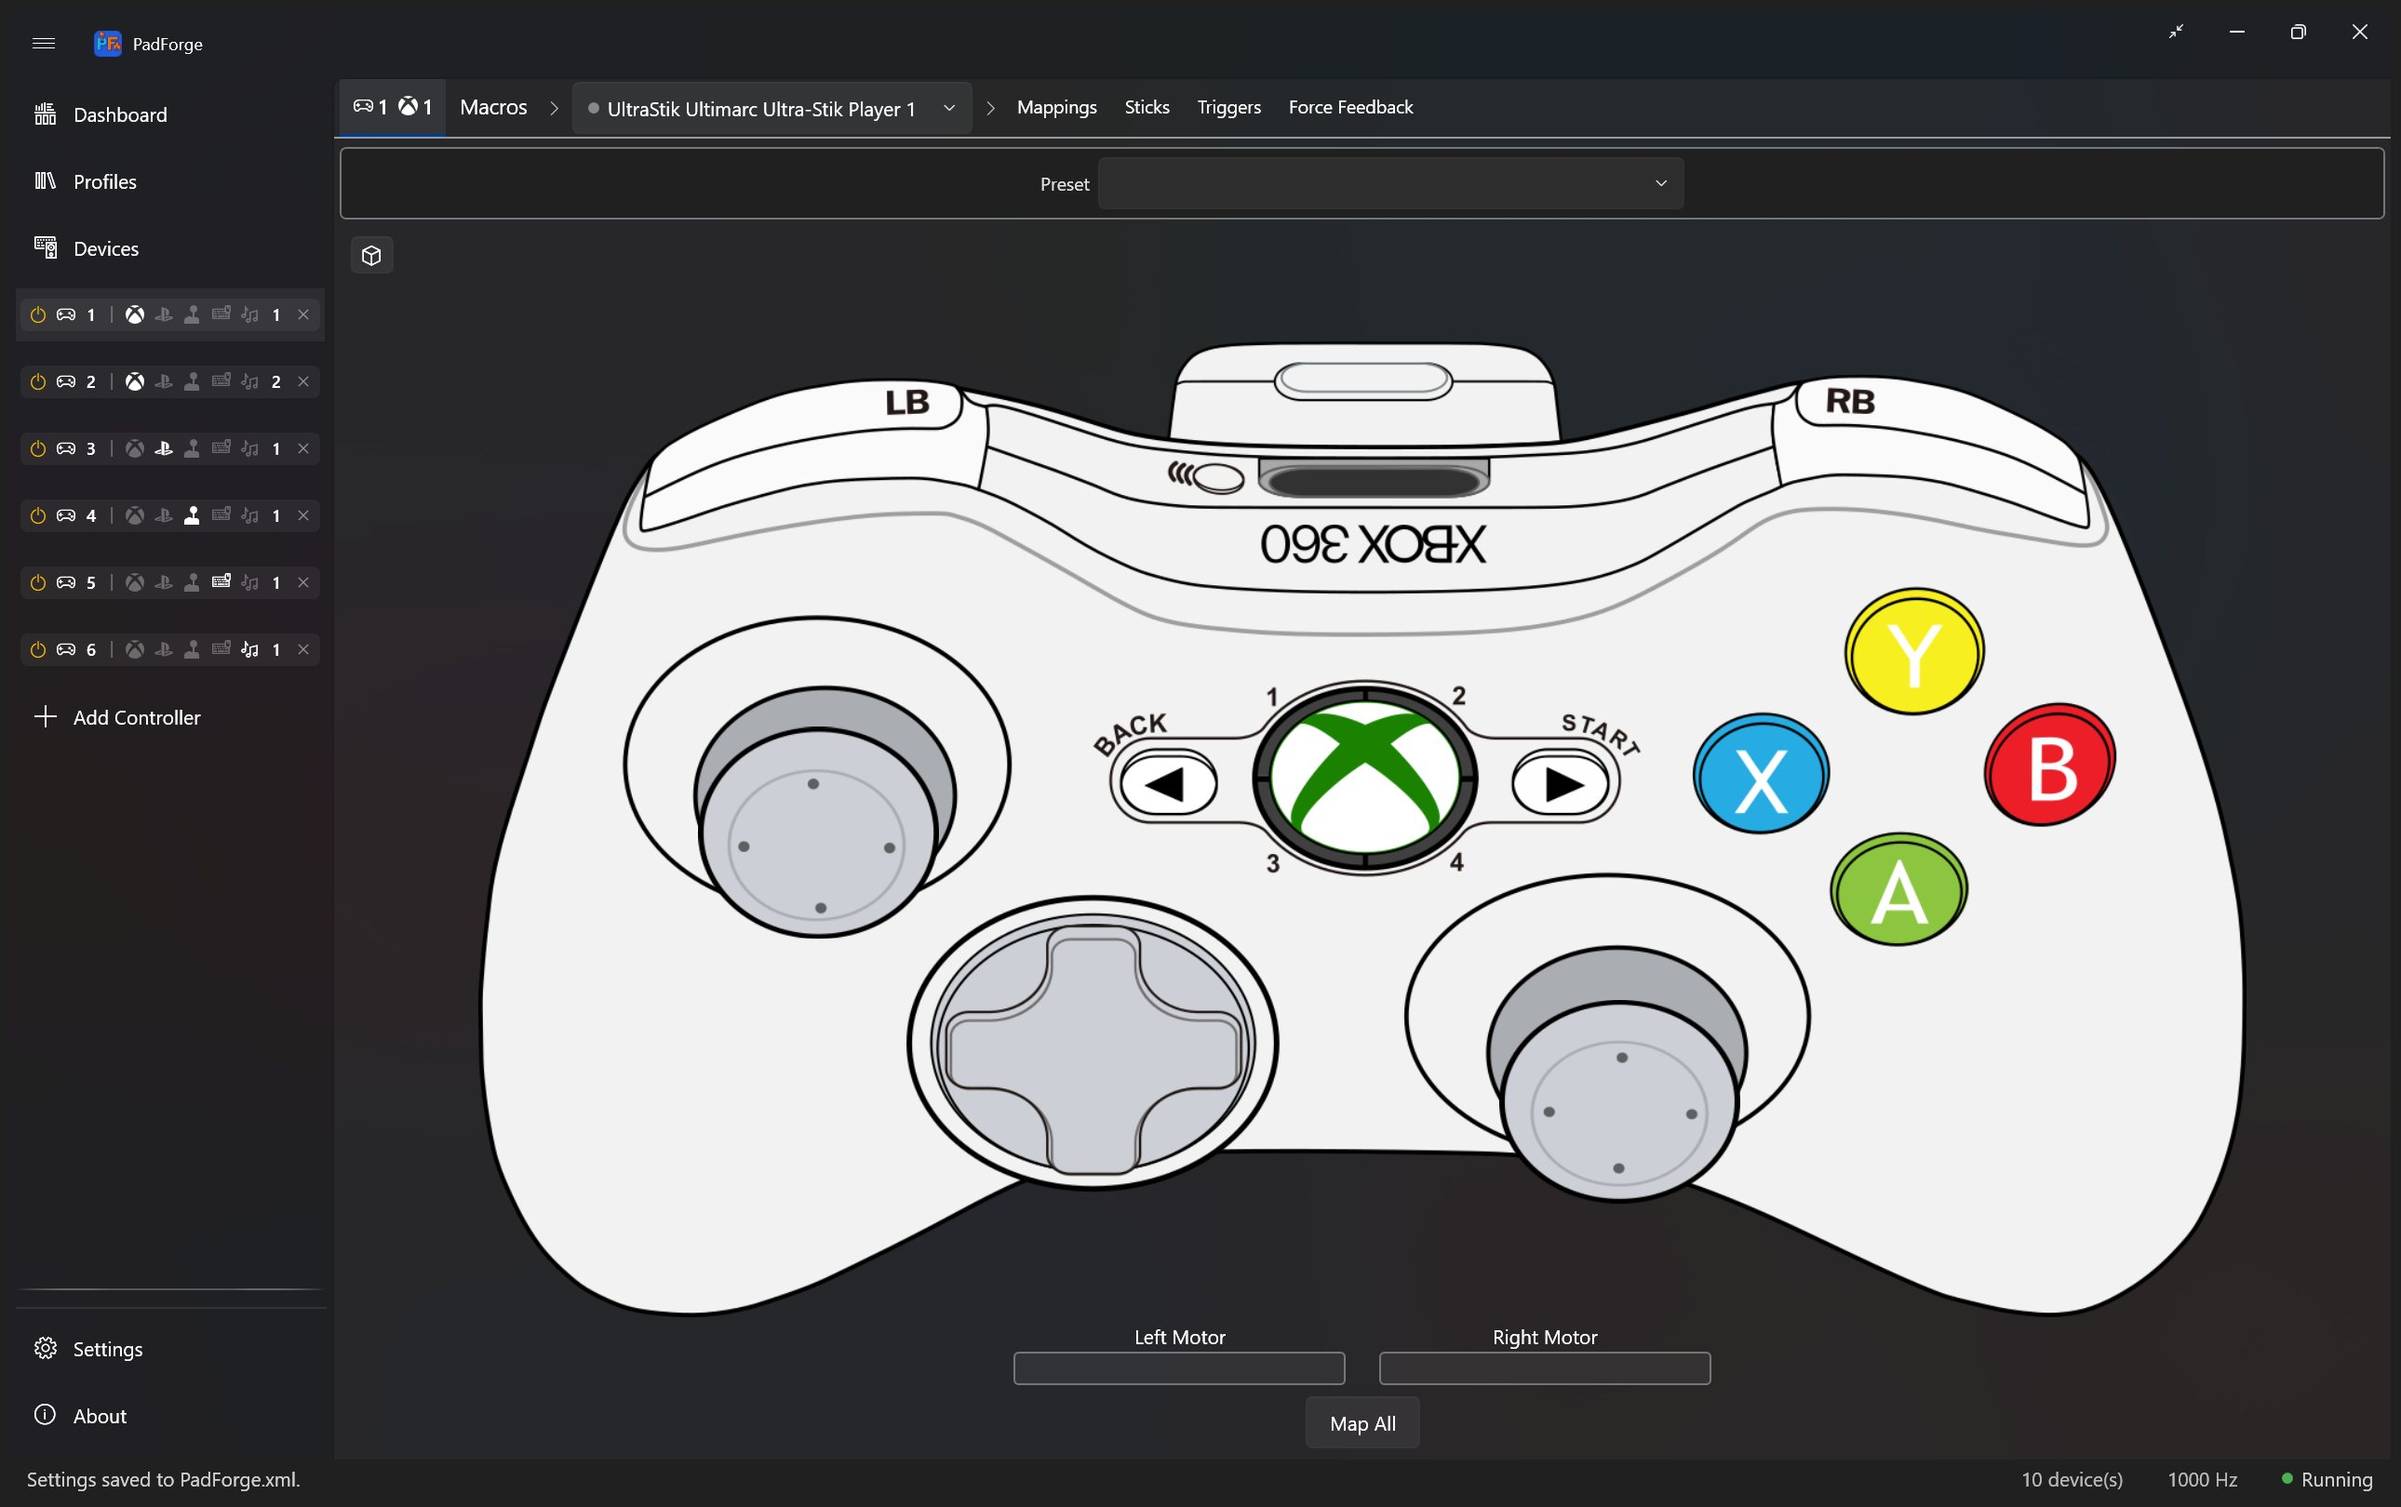
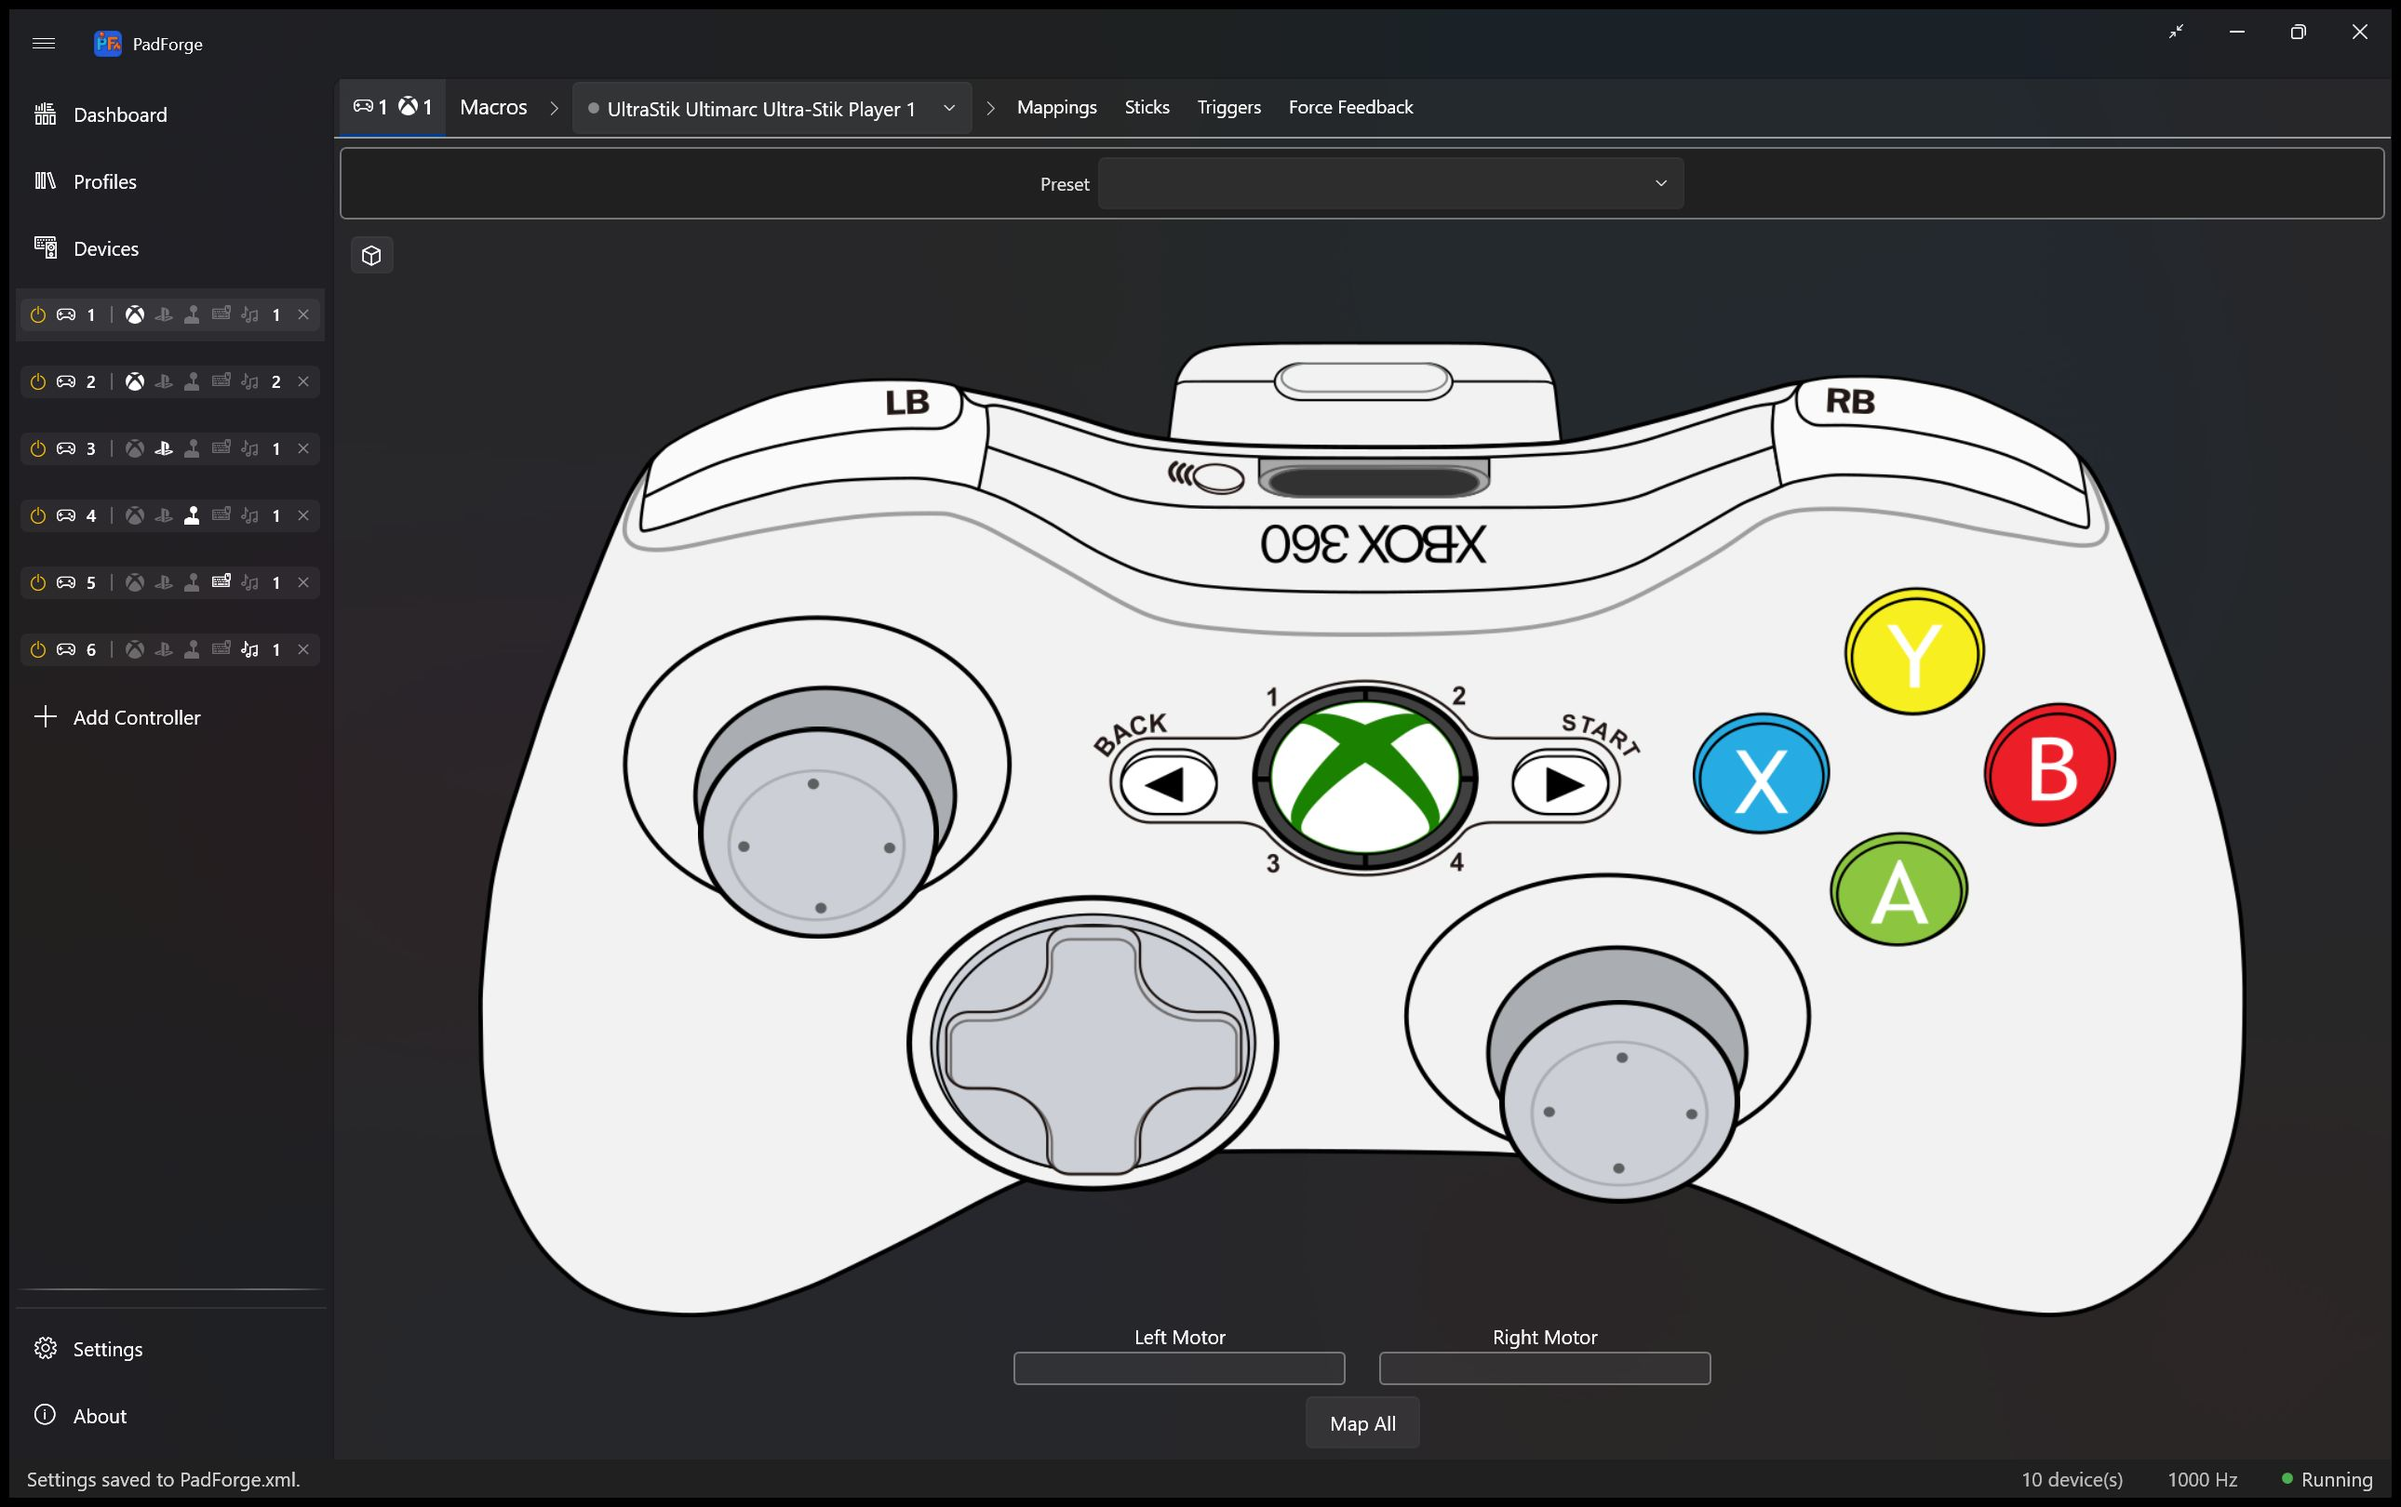
v3.1.0: refresh screenshot gallery + add Adaptive Triggers / Lighting
index.html
- New "Adaptive Triggers & Lighting" feature card under Force Feedback,
  summarizing the seven DualSense trigger effect modes (with the live
  preview that draws the resistance / amplitude shape across the pull)
  and the thirteen lightbar modes.
- Two new screenshot gallery slides — screenshot-adaptive-triggers.jpg
  and screenshot-lighting.jpg — inserted before Extended.

assets/
- 25 existing JPGs refreshed to the v3.1.0 build so theme-aware icon
  changes and PadPage layout updates are reflected.
- screenshot-adaptive-triggers.jpg and screenshot-lighting.jpg are new.

Changed region(s): [[0.0, 0.0, 1.0, 1.0]]

diff --git a/index.html b/index.html
@@ -84,6 +84,11 @@
                 <p>Full force feedback and rumble passthrough. Audio-to-bass rumble synthesis for games without native support.</p>
             </div>
             <div class="feature-card">
+                <div class="feature-icon">&#128268;</div>
+                <h3>Adaptive Triggers &amp; Lighting</h3>
+                <p>Seven DualSense trigger effect modes with a live profile preview, plus thirteen lightbar modes including audio-driven, palette-cycle, and input-reactive.</p>
+            </div>
+            <div class="feature-card">
                 <div class="feature-icon">&#9889;</div>
                 <h3>Macros &amp; Combos</h3>
                 <p>Trigger action sequences with button combos. Axis-to-keyboard, mouse movement output, and conditional triggers.</p>
@@ -164,6 +169,14 @@
                     <figure class="screenshot-item">
                         <img src="assets/screenshot-devices.jpg" alt="Devices Page" loading="lazy">
                         <figcaption>Devices: card-based device list with live input visualization</figcaption>
+                    </figure>
+                    <figure class="screenshot-item">
+                        <img src="assets/screenshot-adaptive-triggers.jpg" alt="Adaptive Triggers" loading="lazy">
+                        <figcaption>Adaptive Triggers: seven DualSense effect modes with a live preview that draws the resistance / amplitude shape across the trigger pull</figcaption>
+                    </figure>
+                    <figure class="screenshot-item">
+                        <img src="assets/screenshot-lighting.jpg" alt="Lighting" loading="lazy">
+                        <figcaption>Lighting: thirteen lightbar modes including audio-driven, palette-cycle, and input-reactive effects, plus the player-indicator and mute LED card</figcaption>
                     </figure>
                     <figure class="screenshot-item">
                         <img src="assets/screenshot-extended.jpg" alt="Extended Virtual Controller" loading="lazy">
